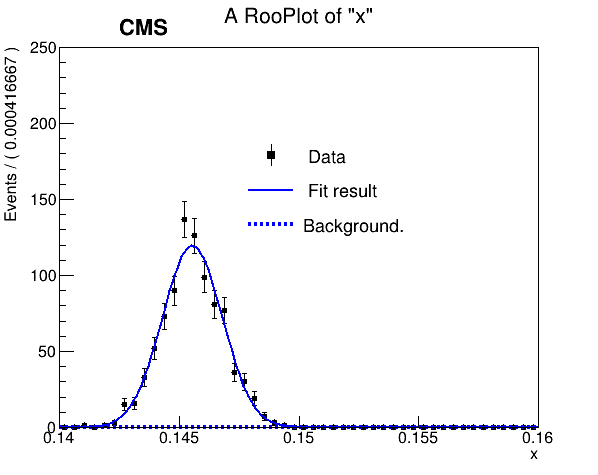
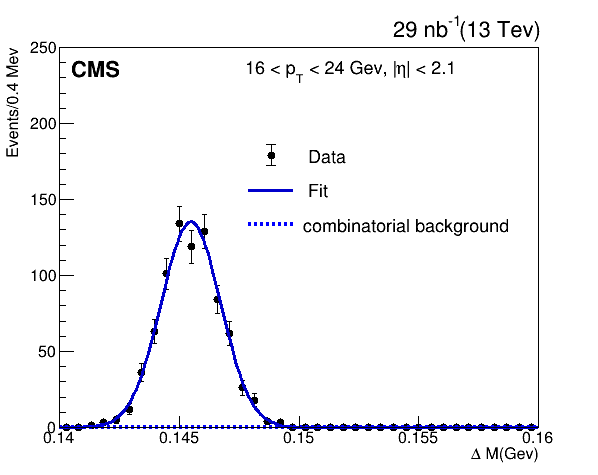
gráfica 1 completa

diff --git a/plot_Proyecto.C b/plot_Proyecto.C
@@ -7,11 +7,12 @@
 #include "RooPlot.h"
 #include "TAxis.h"
 using namespace RooFit;
+using namespace std;
 
 void plot_Proyecto()
 {
-Int_t bins = 48;
-Int_t datos = 900;
+Int_t bins = 38;
+Int_t datos = 800;
 // S e t u p   m o d e l
 // ---------------------
 
@@ -36,7 +37,7 @@ RooAddPdf MassModel("MassModel","MassModel",RooArgList(gauss,bkg1),RooArgList(Ns
 // -----------------------------
 
 // Generate a dataset of 1000 events in x from gauss
-RooDataSet *data = gauss.generate(x, datos,Binning(bins));
+RooDataSet *data = gauss.generate(x, datos);
 
 
 // F i t   m o d e l   t o   d a t a
@@ -44,7 +45,6 @@ RooDataSet *data = gauss.generate(x, datos,Binning(bins));
 
 // Fit pdf to data
 MassModel.fitTo(*data,Extended(),Minos(kFALSE),Save(kTRUE), NumCPU(4));
-bkg1.Print("v"); 
 
 
 //mean.Print();
@@ -55,22 +55,45 @@ bkg1.Print("v");
 TCanvas *c1 = new TCanvas("c1","",600,500);
 
 RooPlot *xframe2 = x.frame();
-data->plotOn(xframe2, MarkerSize(0.8), DrawOption("P"),Binning(bins),DataError(RooAbsData::SumW2),XErrorSize(0));
+data->plotOn(xframe2,Name("data"), MarkerSize(1 ),MarkerStyle(8), DrawOption("P"),Binning(bins),DataError(RooAbsData::SumW2),XErrorSize(0));
 //MassModel.plotOn(xframe2,LineColor(kBlue),LineWidth(2),Name("fit"));
-MassModel.plotOn(xframe2,Components(gauss),LineColor(kBlue),LineWidth(2),Name("signal")); 
+MassModel.plotOn(xframe2,Components(gauss),LineColor(kBlue+1),LineWidth(3),Name("signal")); 
 MassModel.plotOn(xframe2,Components(bkg1),LineColor(kBlue),LineWidth(4), LineStyle(kDashed) ,Name("bkg1")); 
+
 
 xframe2->GetXaxis()->SetNdivisions(6);
 xframe2->SetMinimum(-1); 
 xframe2->GetYaxis()->SetRangeUser(0, 250);   
+xframe2->SetTitle(" ");
+xframe2->SetYTitle("Events/0.4 Mev"); 
+xframe2->SetXTitle("#Delta M(Gev)");
 xframe2->Draw();
 
-TLatex *tex2 = new TLatex(0.2,0.926,"CMS");
+TLatex *tex2 = new TLatex(0.12,0.836,"CMS");
 tex2->SetNDC();
-tex2->SetTextFont(61);
+tex2->SetTextFont(60);
 tex2->SetTextSize(0.05); 
 tex2->SetLineWidth(2);
-tex2->Draw();
+tex2->Draw("L");
+
+auto legend = new TLegend(1,1.5,.62,.38);
+legend->AddEntry("", "29 nb^{-1}(13 Tev)","");
+legend->SetBorderSize(0);
+legend->SetTextSize(0.05);
+legend->SetFillStyle(0);
+legend->SetMargin(0.1);
+legend->Draw();
+
+auto legend2 = new TLegend(0.5,0.8,.4,0.9);
+legend2->AddEntry("", "16 < p_{T} < 24 Gev, |#eta| < 2.1","");
+legend2->SetBorderSize(0);
+legend2->SetTextSize(0.04);
+legend2->SetFillStyle(0);
+legend2->SetMargin(0.1);
+legend2->Draw();
+
+
+
 
 //Leyenda: objetos de la figura
 TLegend *leg = new TLegend(0.4,0.49,0.83,0.71); 
@@ -78,11 +101,13 @@ leg->SetTextSize(0.04);
 leg->SetFillColor(0);
 leg->SetBorderSize(0);
 leg->SetFillStyle(0);
-leg->AddEntry(xframe2->findObject("Data")," Data","ep"); 
-leg->AddEntry(xframe2->findObject("signal")," Fit result","l");
-leg->AddEntry(xframe2->findObject("bkg1"),"Background.","l");
+leg->AddEntry(xframe2->findObject("data")," Data","ep"); 
+leg->AddEntry(xframe2->findObject("signal")," Fit ","l");
+leg->AddEntry(xframe2->findObject("bkg1"),"combinatorial background","l");
 leg->Draw();
 //Se almacena el lianzo en la carpeta plots
+c1->Update();
+
 c1->Draw();
 c1->Print("plots/Plot_DeltaM.png");
 }
